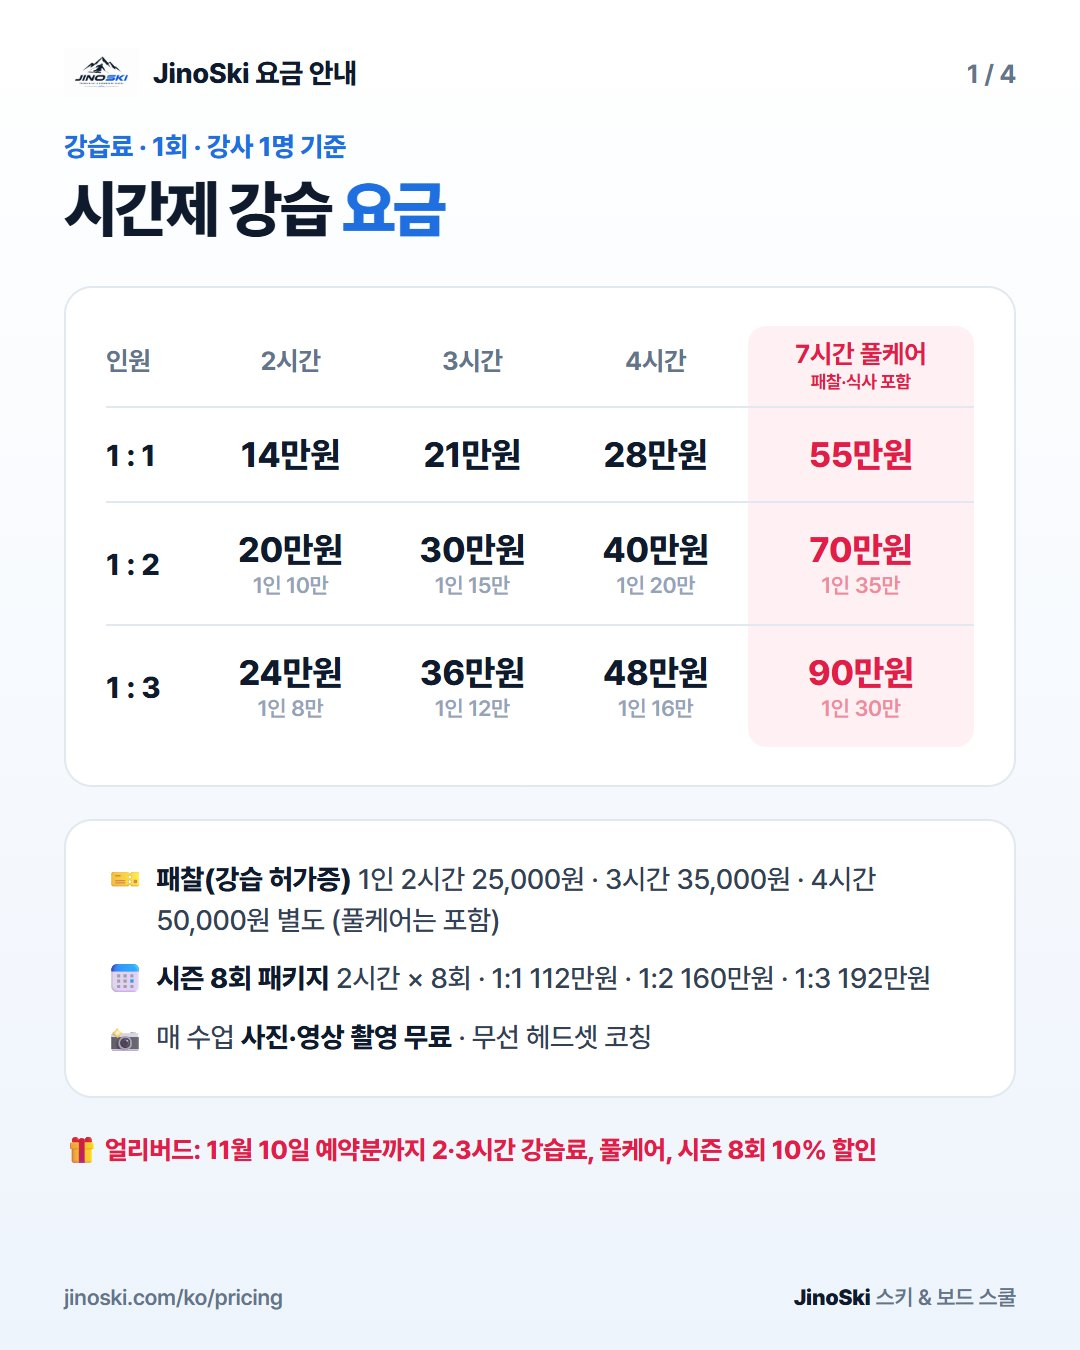
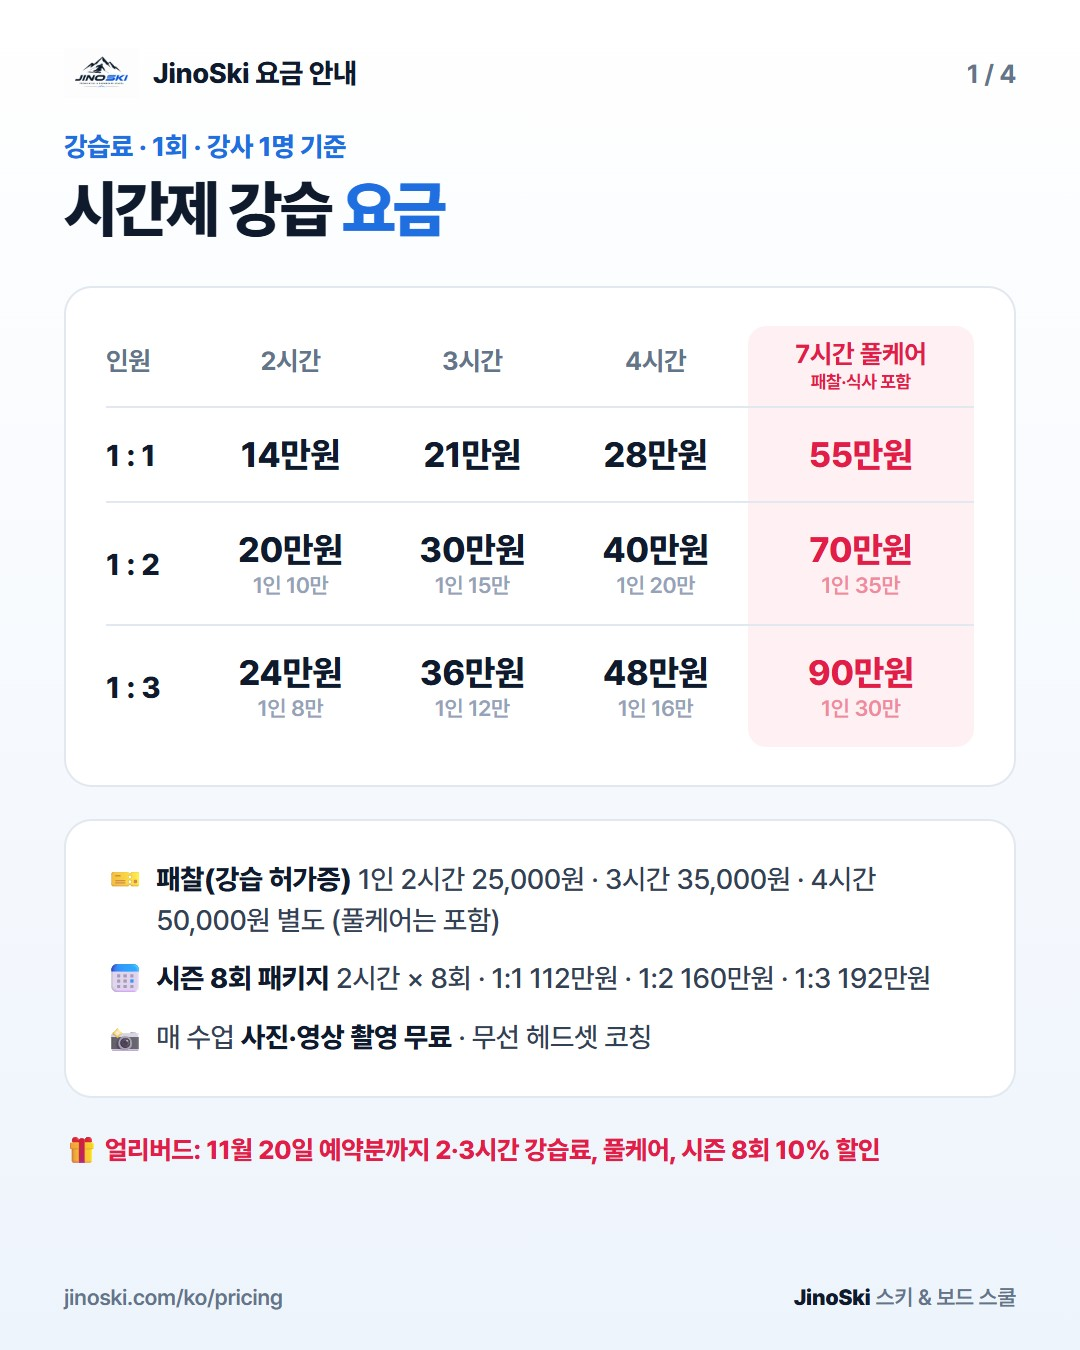
얼리버드 11/10 → 11/20 연장 (할인 계산·공지·팝업 D-day·ko/en/zh 문구·안내 사진 pricing-1·day-1)

Changed region(s): [[0.2444, 0.84, 0.825, 0.8711]]

diff --git a/src/config/notices.ts b/src/config/notices.ts
@@ -16,17 +16,17 @@ export const NOTICES: Notice[] = [
   {
     id: "2627-open",
     date: "2026-10-25",
-    endDate: "2026-11-10",
+    endDate: "2026-11-20",
     pinned: true,
     title: {
-      ko: "26/27 시즌 예약 오픈 · 얼리버드 10% 할인 (11/10까지)",
-      en: "2026/27 season booking open · Early-bird 10% off (until Nov 10)",
-      zh: "26/27雪季预约开放 · 早鸟9折（至11月10日）",
+      ko: "26/27 시즌 예약 오픈 · 얼리버드 10% 할인 (11/20까지)",
+      en: "2026/27 season booking open · Early-bird 10% off (until Nov 20)",
+      zh: "26/27雪季预约开放 · 早鸟9折（至11月20日）",
     },
     body: {
-      ko: "26/27 시즌 강습 예약을 받고 있어요. 시즌 강습은 12월 4일 ~ 3월 1일 예정이며, 슬로프 오픈 상황에 따라 바뀔 수 있어요.\n11월 10일까지 예약하시면 2·3시간 레슨과 원데이·나이트 풀케어 레슨료가 10% 할인돼요. (패찰·리프트·장비는 할인 제외)\n리프트권·장비는 정가 40% 할인된 금액으로 예약할 때 같이 신청할 수 있어요.",
-      en: "We're taking bookings for the 2026/27 season. Lessons are planned from Dec 4 to Mar 1 (subject to slope opening).\nBook by Nov 10 for 10% off 2h/3h lessons and One Day / Night Full Care lesson fees (permit, lift and rental not included).\nLift tickets and rentals can be added at 40% off the list price when you book.",
-      zh: "26/27雪季课程现已开放预约。课程计划于12月4日至3月1日进行，可能因雪道开放情况调整。\n11月10日前预约，2·3小时课程及全天·夜场全程陪练课程费享9折（教学许可证·缆车·装备除外）。\n缆车票·装备可在预约时以原价6折一起申请。",
+      ko: "26/27 시즌 강습 예약을 받고 있어요. 시즌 강습은 12월 4일 ~ 3월 1일 예정이며, 슬로프 오픈 상황에 따라 바뀔 수 있어요.\n11월 20일까지 예약하시면 2·3시간 레슨과 원데이·나이트 풀케어 레슨료가 10% 할인돼요. (패찰·리프트·장비는 할인 제외)\n리프트권·장비는 정가 40% 할인된 금액으로 예약할 때 같이 신청할 수 있어요.",
+      en: "We're taking bookings for the 2026/27 season. Lessons are planned from Dec 4 to Mar 1 (subject to slope opening).\nBook by Nov 20 for 10% off 2h/3h lessons and One Day / Night Full Care lesson fees (permit, lift and rental not included).\nLift tickets and rentals can be added at 40% off the list price when you book.",
+      zh: "26/27雪季课程现已开放预约。课程计划于12月4日至3月1日进行，可能因雪道开放情况调整。\n11月20日前预约，2·3小时课程及全天·夜场全程陪练课程费享9折（教学许可证·缆车·装备除外）。\n缆车票·装备可在预约时以原价6折一起申请。",
     },
     link: { href: "/reserve", label: { ko: "예약하기", en: "Book now", zh: "立即预约" } },
   },

diff --git a/src/lib/quote-faq-i18n.ts b/src/lib/quote-faq-i18n.ts
@@ -60,7 +60,7 @@ export const QA_EN: QA[] = [
   },
   {
     q: "When and how do we pay?",
-    a: "After you send your quote, we check instructor availability and contact you. Once confirmed, please pay a KRW 300,000 deposit (about USD 220; the full amount if your total is less — PayPal or bank transfer) — your booking is confirmed when we receive it, and the balance is paid on the lesson day. Lift tickets and rental (40% off) are paid to JinoSki together with the lesson fee, so on the day you just pick them up. During the early-bird period (book by Nov 10), 2- and 3-hour lessons and One Day / Night Full Care are 10% off.",
+    a: "After you send your quote, we check instructor availability and contact you. Once confirmed, please pay a KRW 300,000 deposit (about USD 220; the full amount if your total is less — PayPal or bank transfer) — your booking is confirmed when we receive it, and the balance is paid on the lesson day. Lift tickets and rental (40% off) are paid to JinoSki together with the lesson fee, so on the day you just pick them up. During the early-bird period (book by Nov 20), 2- and 3-hour lessons and One Day / Night Full Care are 10% off.",
   },
   {
     q: "What if our plans change or the weather is bad?",
@@ -127,7 +127,7 @@ export const QA_ZH: QA[] = [
   },
   {
     q: "什么时候、怎么付款？",
-    a: "提交报价后，我们会确认教练日程并联系您。确认后请先支付30万韩元订金（约220美元，总额不足则付全款；PayPal或银行转账），收到后预约即确认，余款在上课当天支付。缆车票·装备（6折）与课程费一起付给JinoSki，当天现场直接领取即可。早鸟期间（11月10日前预约）2·3小时课程及One Day / Night Full Care享9折优惠。",
+    a: "提交报价后，我们会确认教练日程并联系您。确认后请先支付30万韩元订金（约220美元，总额不足则付全款；PayPal或银行转账），收到后预约即确认，余款在上课当天支付。缆车票·装备（6折）与课程费一起付给JinoSki，当天现场直接领取即可。早鸟期间（11月20日前预约）2·3小时课程及One Day / Night Full Care享9折优惠。",
   },
   {
     q: "中途行程变化或天气不好怎么办？",

diff --git a/src/components/sections/quote-faq.tsx b/src/components/sections/quote-faq.tsx
@@ -61,7 +61,7 @@ const QA: { q: string; a: string }[] = [
   },
   {
     q: "결제는 언제, 어떻게 하나요?",
-    a: "견적 문의를 보내주시면 강사 일정을 확인해서 연락드려요. 확정 안내를 받으시면 예약금 30만원을 입금해 주세요(총 금액이 30만원보다 적으면 전액) — 입금이 확인되면 예약이 확정되고, 잔금은 강습 당일에 결제해요. 리프트권·장비(40% 할인)도 강습료와 함께 지노스키에 결제하시면 현장에서는 받기만 하면 돼요. 계좌이체(국민은행 010-4047-7711 · 박진호(지노컴퍼니)) 또는 스마트스토어(네이버페이·카드)로 결제할 수 있어요. 얼리버드 기간(11월 10일까지 예약)에는 2·3시간 레슨과 원데이·나이트 풀케어 레슨료 10% 할인이 적용돼요.",
+    a: "견적 문의를 보내주시면 강사 일정을 확인해서 연락드려요. 확정 안내를 받으시면 예약금 30만원을 입금해 주세요(총 금액이 30만원보다 적으면 전액) — 입금이 확인되면 예약이 확정되고, 잔금은 강습 당일에 결제해요. 리프트권·장비(40% 할인)도 강습료와 함께 지노스키에 결제하시면 현장에서는 받기만 하면 돼요. 계좌이체(국민은행 010-4047-7711 · 박진호(지노컴퍼니)) 또는 스마트스토어(네이버페이·카드)로 결제할 수 있어요. 얼리버드 기간(11월 20일까지 예약)에는 2·3시간 레슨과 원데이·나이트 풀케어 레슨료 10% 할인이 적용돼요.",
   },
   {
     q: "중간에 일정이 바뀌거나 날씨가 안 좋으면요?",

diff --git a/src/config/content/ko.ts b/src/config/content/ko.ts
@@ -674,7 +674,7 @@ const seasonProgram: SiteContent["seasonProgram"] = {
         "한두 번의 체험이 아닌 꾸준한 반복 학습을 통해 자신감 있는 라이딩과 안정적인 스킹을 완성할 수 있습니다. 시즌이 끝날 때쯤에는 이전과 확연히 달라진 자신의 모습을 느낄 수 있습니다.",
     },
   ],
-  priceNote: "얼리버드 10% 할인가(11월 10일 예약분까지)예요. 패찰(강습 허가증) 비용은 별도예요. 1:1 / 1:2 / 1:3 인원에 따라 금액이 달라지며, 일정 조율은 전화나 카카오톡으로 편하게 문의해주세요.",
+  priceNote: "얼리버드 10% 할인가(11월 20일 예약분까지)예요. 패찰(강습 허가증) 비용은 별도예요. 1:1 / 1:2 / 1:3 인원에 따라 금액이 달라지며, 일정 조율은 전화나 카카오톡으로 편하게 문의해주세요.",
   priceNoteRegular: "패찰(강습 허가증) 비용은 별도예요. 1:1 / 1:2 / 1:3 인원에 따라 금액이 달라지며, 일정 조율은 전화나 카카오톡으로 편하게 문의해주세요.",
   phoneButton: "전화 문의",
   kakaoButton: "카카오톡 문의",
@@ -1225,7 +1225,7 @@ const bookingWizard: SiteContent["bookingWizard"] = {
   },
   priceSummary: {
     earlyBird: "얼리버드 할인",
-    earlyBirdDetail: "레슨료 10% · 11월 10일 예약분까지",
+    earlyBirdDetail: "레슨료 10% · 11월 20일 예약분까지",
     earlyBirdButton: "얼리버드 10% 할인 받기",
     earlyBirdApplied: "얼리버드 10% 할인 적용됨",
     lessonFee: "레슨료",

diff --git a/src/config/content/en.ts b/src/config/content/en.ts
@@ -669,7 +669,7 @@ const seasonProgram: SiteContent["seasonProgram"] = {
         "Consistent, repeated practice — not just one or two tries — builds confident riding and stable skiing. By the end of the season you'll notice a clear difference in yourself.",
     },
   ],
-  priceNote: "Early-bird price (10% off, book by Nov 10). Lesson permit fee is separate. Price depends on group size (1:1 / 1:2 / 1:3); call or message us on KakaoTalk to arrange your schedule.",
+  priceNote: "Early-bird price (10% off, book by Nov 20). Lesson permit fee is separate. Price depends on group size (1:1 / 1:2 / 1:3); call or message us on KakaoTalk to arrange your schedule.",
   priceNoteRegular: "Lesson permit fee is separate. Price depends on group size (1:1 / 1:2 / 1:3); call or message us on KakaoTalk to arrange your schedule.",
   phoneButton: "Call Us",
   kakaoButton: "KakaoTalk",
@@ -1219,7 +1219,7 @@ const bookingWizard: SiteContent["bookingWizard"] = {
   },
   priceSummary: {
     earlyBird: "Early-bird discount",
-    earlyBirdDetail: "10% off the lesson fee · book by Nov 10",
+    earlyBirdDetail: "10% off the lesson fee · book by Nov 20",
     earlyBirdButton: "Get the early-bird 10% discount",
     earlyBirdApplied: "Early-bird 10% discount applied",
     lessonFee: "Lesson fee",

diff --git a/src/config/content/zh.ts b/src/config/content/zh.ts
@@ -630,7 +630,7 @@ const seasonProgram: SiteContent["seasonProgram"] = {
         "并非一两次体验，而是通过持续反复的练习，完成自信的滑行与稳定的滑雪。季节结束时，您会明显感受到与之前不同的自己。",
     },
   ],
-  priceNote: "早鸟10%优惠价（11月10日前预约）。教学许可证（挂牌）费用另计。价格根据人数（1:1 / 1:2 / 1:3）有所不同，日程请通过电话或KakaoTalk咨询。",
+  priceNote: "早鸟10%优惠价（11月20日前预约）。教学许可证（挂牌）费用另计。价格根据人数（1:1 / 1:2 / 1:3）有所不同，日程请通过电话或KakaoTalk咨询。",
   priceNoteRegular: "教学许可证（挂牌）费用另计。价格根据人数（1:1 / 1:2 / 1:3）有所不同，日程请通过电话或KakaoTalk咨询。",
   phoneButton: "电话咨询",
   kakaoButton: "KakaoTalk咨询",
@@ -1179,7 +1179,7 @@ const bookingWizard: SiteContent["bookingWizard"] = {
   },
   priceSummary: {
     earlyBird: "早鸟优惠",
-    earlyBirdDetail: "课程费9折 · 11月10日前预约",
+    earlyBirdDetail: "课程费9折 · 11月20日前预约",
     earlyBirdButton: "领取早鸟9折优惠",
     earlyBirdApplied: "已享早鸟9折优惠",
     lessonFee: "课程费用",

diff --git a/src/config/store.ts b/src/config/store.ts
@@ -12,7 +12,7 @@ export type StoreProduct = {
   image: string;
   imagePosition?: string;
   badge?: string;
-  /** 얼리버드 기간(11/10까지)에만 보여줄 배지·가격 */
+  /** 얼리버드 기간(11/20까지)에만 보여줄 배지·가격 */
   earlyBird?: { badge: string; price: string };
   /** 아직 스토어에 안 올라간 상품: 구매 버튼 대신 상담 버튼 */
   comingSoon?: boolean;
@@ -49,7 +49,7 @@ export const storeProducts: StoreProduct[] = [
     price: "1,120,000원~",
     priceNote: "1:1 기준",
     image: "/images/store/season8.jpg",
-    earlyBird: { badge: "얼리버드 · 11/10까지", price: "1,008,000원~" },
+    earlyBird: { badge: "얼리버드 · 11/20까지", price: "1,008,000원~" },
     url: "https://smartstore.naver.com/jinoski/products/11057867556",
   },
   {

diff --git a/src/components/sections/season-popup.tsx b/src/components/sections/season-popup.tsx
@@ -113,7 +113,7 @@ export function SeasonPopup() {
               {(() => {
                 const kst = new Date(Date.now() + 9 * 3600 * 1000).toISOString().slice(0, 10);
                 const d = Math.round((Date.parse(EARLY_BIRD.endDate) - Date.parse(kst)) / 86400000);
-                return d === 0 ? "오늘 마감!" : d > 0 && d <= 14 ? `마감 D-${d} · 11/10까지 예약` : "11/10까지 예약";
+                return d === 0 ? "오늘 마감!" : d > 0 && d <= 14 ? `마감 D-${d} · 11/20까지 예약` : "11/20까지 예약";
               })()} · 시즌 8회 패키지 · 눌러서 보기
             </span>
           </button>

diff --git a/src/lib/pricing.ts b/src/lib/pricing.ts
@@ -22,10 +22,10 @@ export function getGroupStudentCount(groupSize: string): number {
 
 /**
  * 26/27 얼리버드: 2시간·3시간 강습, 원데이·나이트 풀케어 레슨료 10% 할인.
- * 예약하는 날(한국 시간) 기준 11월 10일까지 적용. 패찰 비용은 할인 대상이 아님.
+ * 예약하는 날(한국 시간) 기준 11월 20일까지 적용. 패찰 비용은 할인 대상이 아님.
  */
 export const EARLY_BIRD = {
-  endDate: "2026-11-10",
+  endDate: "2026-11-20",
   rate: 0.1,
   programs: ["2h", "3h", "one-day", "night"] as ProgramValue[],
 };

diff --git a/src/lib/use-early-bird.ts b/src/lib/use-early-bird.ts
@@ -8,7 +8,7 @@ const noSubscribe = () => () => {};
 /**
  * 얼리버드 기간인지 (한국 시간 기준).
  * 정적 HTML은 얼리버드판으로 만들어지고, 브라우저에서 오늘 날짜로 다시 판단해요
- * (11/11부터는 손대지 않아도 정가로 바뀌어요 · hydration 경고 없이).
+ * (11/21부터는 손대지 않아도 정가로 바뀌어요 · hydration 경고 없이).
  */
 export function useEarlyBird(): boolean {
   return useSyncExternalStore(noSubscribe, isEarlyBirdActive, () => true);

diff --git a/src/components/shared/guide-cards.tsx b/src/components/shared/guide-cards.tsx
@@ -5,7 +5,7 @@ import { trackEvent } from "@/components/shared/analytics";
 import { isEarlyBirdActive } from "@/lib/pricing";
 import { cn } from "@/lib/utils";
 
-/** regular: 얼리버드가 끝나면(11/11부터, 한국 시간) 대신 보여줄 정가판 이미지 */
+/** regular: 얼리버드가 끝나면(11/21부터, 한국 시간) 대신 보여줄 정가판 이미지 */
 export type GuideCard = { src: string; alt: string; regular?: string };
 
 const noSubscribe = () => () => {};

diff --git a/src/components/sections/pricing.tsx b/src/components/sections/pricing.tsx
@@ -259,7 +259,7 @@ function FullCareCard({
 function SeasonProgramCard() {
   const usd = useUsd();
   const { seasonProgram, contact } = useContent();
-  // 얼리버드 기간(11/10까지)이 지나면 할인 표시를 숨기고 정상가로 보여줌
+  // 얼리버드 기간(11/20까지)이 지나면 할인 표시를 숨기고 정상가로 보여줌
   const [eb, setEb] = useState(true);
   useEffect(() => {
     // eslint-disable-next-line react-hooks/set-state-in-effect
